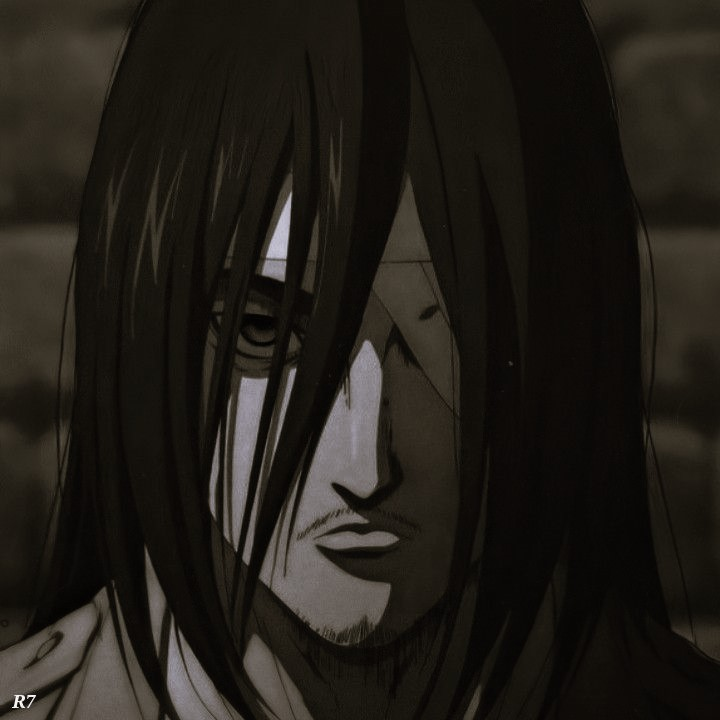
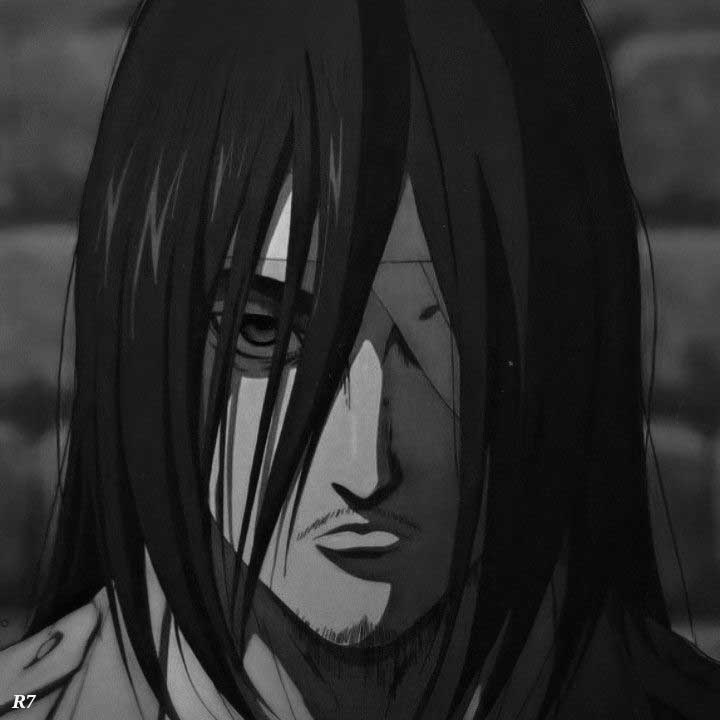
design enhanced, sidebar functional

diff --git a/src/components/Sidebar2.jsx b/src/components/Sidebar2.jsx
@@ -1,15 +1,76 @@
-function Sidebar2() {
+import React, { useState, useEffect } from "react";
+import { Link } from "react-scroll";
+
+function Sidebar() {
+  const [activeSection, setActiveSection] = useState(null);
+
+  useEffect(() => {
+    const handleScroll = () => {
+      const introTop = document.getElementById("intro").offsetTop;
+      const aboutmeTop = document.getElementById("aboutme").offsetTop;
+      const skillsTop = document.getElementById("skills").offsetTop;
+      const projTop = document.getElementById("proj").offsetTop;
+      const expTop = document.getElementById("exp").offsetTop;
+      const contactTop = document.getElementById("contact").offsetTop;
+
+      const windowHeight = window.innerHeight;
+      const triggerPoint = windowHeight / 2;
+
+      if (window.scrollY + triggerPoint >= contactTop) {
+        setActiveSection("contact");
+      } else if (window.scrollY + triggerPoint >= expTop) {
+        setActiveSection("exp");
+      } else if (window.scrollY + triggerPoint >= projTop) {
+        setActiveSection("proj");
+      } else if (window.scrollY + triggerPoint >= skillsTop) {
+        setActiveSection("skills");
+      } else if (window.scrollY + triggerPoint >= aboutmeTop) {
+        setActiveSection("aboutme");
+      } else if (window.scrollY + triggerPoint >= introTop) {
+        setActiveSection(null);
+      }
+    };
+
+    window.addEventListener("scroll", handleScroll);
+
+    return () => {
+      window.removeEventListener("scroll", handleScroll);
+    };
+  }, []);
+
   return (
-    <div className="bg-zinc- h-[32rem] w-16 right-0 flex flex-col justify-center items-center gap-7 fixed">
-      <div className="h-36 w-0.5 bg-zinc-900 absolute top-0"></div>
-      <div className="w-3 h-3 cursor-pointer flex items-center relative rounded-full border-orange-600 border-2"></div>
-      <div className="w-3 h-3 cursor-pointer flex items-center relative rounded-full border-orange-600 border-2"></div>
-      <div className="w-3 h-3 cursor-pointer flex items-center relative  rounded-full border-orange-600 border-2"></div>
-      <div className="w-3 h-3 cursor-pointer flex items-center relative rounded-full border-orange-600 border-2"></div>
-      <div className="w-3 h-3 cursor-pointer flex items-center relative rounded-full border-orange-600 border-2"></div>
-      <div className="h-36 w-0.5 bg-zinc-900 absolute bottom-0"></div>
-    </div>
+    <nav>
+      <ul className="flex  fixed flex-col gap-8 right-3 top-[38%]">
+        <li
+          className={`h-3 w-2 rounded-full border-2 border-orange-600 ${
+            activeSection === "aboutme" ? "bg-orange-600" : ""
+          }`}
+        ></li>
+        <li
+          className={`h-3 w-2 rounded-full border-2 border-orange-600 ${
+            activeSection === "skills" ? "bg-orange-600" : ""
+          }`}
+        ></li>
+        <li
+          className={`h-3 w-2 rounded-full border-2 border-orange-600 ${
+            activeSection === "proj" ? "bg-orange-600" : ""
+          }`}
+        ></li>
+
+        <li
+          className={`h-3 w-2 rounded-full border-2 border-orange-600 ${
+            activeSection === "exp" ? "bg-orange-600" : ""
+          }`}
+        ></li>
+
+        <li
+          className={`h-3 w-2 rounded-full border-2 border-orange-600 ${
+            activeSection === "contact" ? "bg-orange-600" : ""
+          }`}
+        ></li>
+      </ul>
+    </nav>
   );
 }
 
-export default Sidebar2;
+export default Sidebar;

diff --git a/src/pages/Projects.jsx b/src/pages/Projects.jsx
@@ -56,6 +56,10 @@ function Projects() {
         id="proj"
         className="mt-20 w-full lg:h-auto flex flex-col shrink lg:mt-[30rem] z-40"
       >
+        <h1 className="font-bold text-2xl  ml-5 lg:text-4xl lg:py-3 text-orange-600 flex justify-center items-center">
+          <p className="w-28 italic mr-5 lg:w-32">Projects</p>
+          <div className="h-0.5 w-full bg-zinc-900"></div>
+        </h1>
         {/* Project 1 */}
         <div
           ref={fadeRefs[0]}
@@ -137,12 +141,12 @@ function Projects() {
                   className="bg-zinc-900 rounded-md md:text-xs md:w-full absolute top-[50%] flex lg:text-sm lg:p-5 md:p-3 font-light transition-all duration-500 ease-in-out 
               "
                 >
-                  SwiftCart is an exquisite e-commerce website that showcases my
-                  prowess in JavaScript functions . With a functioning features
-                  like an add to cart, purchasing, and page linking, it delivers
-                  a captivating and dynamic browsing experience. Moreover,
-                  restart surprises you with a fresh array of product displays,
-                  adding a touch of elegance to your shopping journey.
+                  Highlighting my skill in website design, this project
+                  demonstrates my expertise in creating digital experiences.
+                  Prioritizing user-friendly navigation, engaging content, and
+                  an artfully designed layout, it effectively shows my ability
+                  to build impactful and visually pleasing online platforms that
+                  enhance businesses' digital presence.
                 </p>
               </div>
             </div>

diff --git a/src/components/Navbar.jsx b/src/components/Navbar.jsx
@@ -32,7 +32,7 @@ function Navbar() {
     <div>
       {isSmScreen ? (
         // Hamburger menu for sm screen
-        <div className="bg-zinc-900 w-full h-14 lg:h-20 fixed top-0 left-0 flex items-center justify-between">
+        <div className="w-full h-14 lg:h-20 fixed top-0 left-0 flex items-center justify-between backdrop-blur-md shadow-md">
           <section className="ml-3 md:ml-7 cursor-pointer">
             <div className="h-12 w-12 p-[0.83rem] flex bg-center items-center lg:p-3">
               <img src={logo} alt="" href="#" />
@@ -49,7 +49,7 @@ function Navbar() {
         </div>
       ) : (
         // Regular navbar for md and lg screens
-        <div className="bg-zinc-900 w-full h-20 fixed top-0 left-0 flex justify-between items-center">
+        <div className="backdrop-blur-md   w-full h-20 fixed top-0 left-0 flex justify-between items-center shadow-lg">
           <section className="ml-7 cursor-pointer">
             <ScrollLink
               to="intro"
@@ -72,7 +72,7 @@ function Navbar() {
                 smooth={true}
                 duration={500}
                 offset={-100}
-                className="text-white cursor-pointer hover:text-orange-600 transition-colors duration-300 font-light font_theme text-sm"
+                className="text-white cursor-pointer hover:text-orange-600  transition-colors duration-300 font-light font_theme text-sm"
               >
                 About Me
               </ScrollLink>

diff --git a/src/pages/Intro.jsx b/src/pages/Intro.jsx
@@ -83,7 +83,7 @@ function Intro() {
           <div className="w-56 md:w-full lg:h-96 md:h-[60%] md:items-start  md:justify-end flex md:mt-10">
             <div className="h-full w-full md:place-items-end lg:w-[23rem] lg:h-[23rem] ">
               <div className="flex justify-center items-center w-full h-full relative ">
-                <div className="h-[85%] w-[85%] flex items-center border-orange-600 border-2 z-30 absolute"></div>
+                <div className="h-[85%] w-[85%] flex items-center border-orange-600 rounded-tl-3xl rounded-br-3xl  border-2 z-30 absolute"></div>
                 <div className="h-14 w-14 md:h-16 md:w-16 lg:h-24 lg:w-24 bg-orange-700 absolute rounded-full -left-2 md:left-1 top-12 -z-40 opacity-90 "></div>
                 <div className="h-14 w-14 md:h-16 md:w-16 lg:h-24 lg:w-24 bg-orange-800 absolute rounded-full right-12 -bottom-1 z-40"></div>
                 <SlideshowImage />

diff --git a/src/components/AboutImage.jsx b/src/components/AboutImage.jsx
@@ -24,8 +24,8 @@ function ImageDiv() {
       ></div>
       <div className="flex flex-col items-center justify-center">
         <div
-          className={`h-full w-full absolute bg-slate-950 transition-all duration-300 ease-in-out  bg-[url('../assets/AboutMePic.jpg')] bg-center bg-contain ${
-            isHovered ? " h-[90%] w-[90%] scale-90" : ""
+          className={`h-full w-full absolute bg-slate-950 transition-all duration-300 ease-in-out  bg-[url('../assets/AboutMePic.jpg')]  bg-center bg-contain ${
+            isHovered ? " h-[90%] w-[90%] scale-90" : "grayscale"
           }`}
         ></div>
         <div

diff --git a/src/components/Body.jsx b/src/components/Body.jsx
@@ -7,7 +7,7 @@ import img from "../assets/bgpattern.png";
 function Body({ children }) {
   return (
     <>
-      <div className="h-auto w-full fixed z-50 top-0">
+      <div className="h-auto w-full fixed z-50 top-0 ">
         <Navbar />
       </div>
       <div className="w-full h-auto mt-14 md:mt-24 gap-2 flex">
